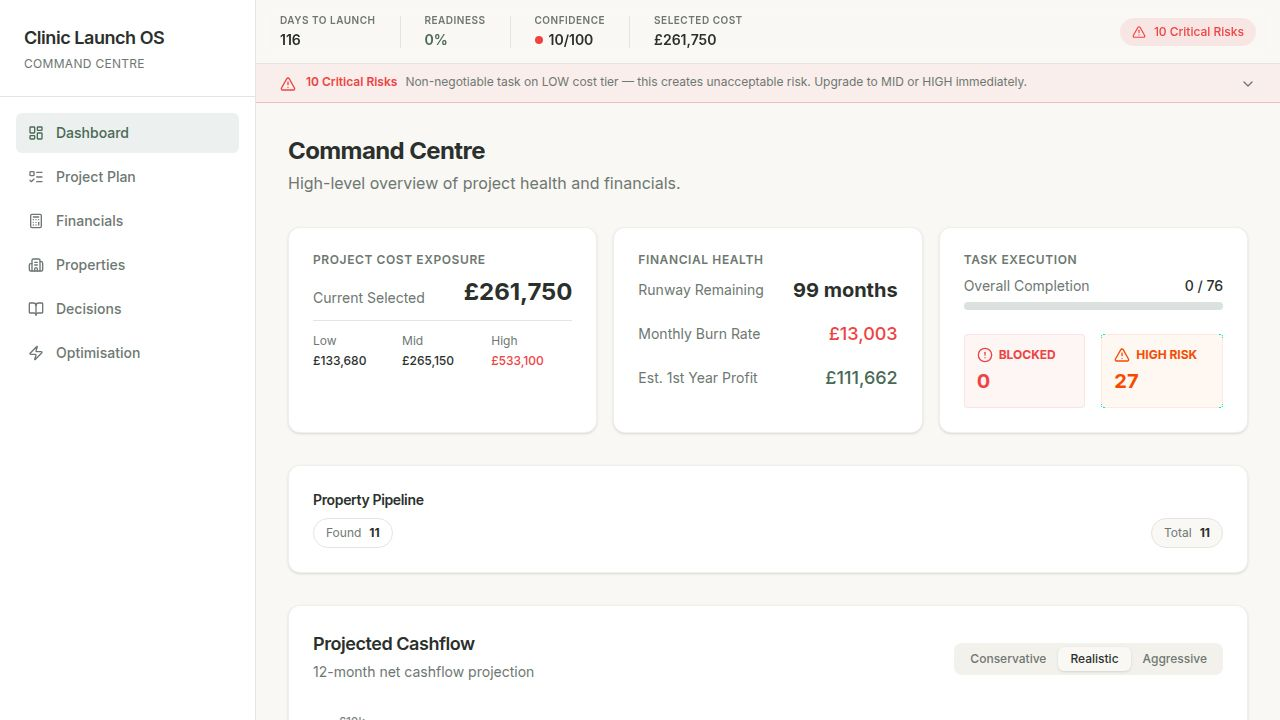
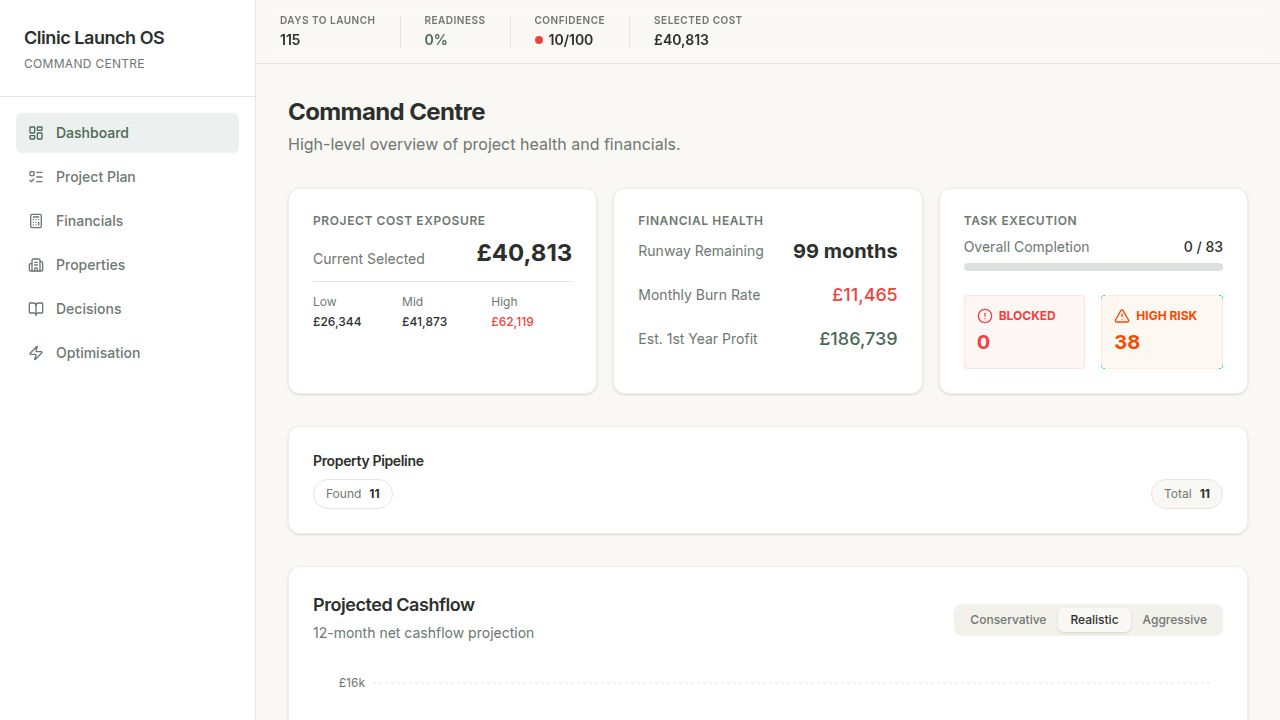
Update application to automatically seed production data on startup
Introduces a startup seed mechanism in the database package and integrates it into the API server's initialization process. The seed logic in `lib/db/src/seed.ts` has been updated to reflect the V5 Winchester plan with 7 phases and 83 tasks. A new `startup-seed.ts` file is created to export `runStartupSeed`, which uses the shared database pool without closing it, ensuring data consistency upon server restarts. The API server's `index.ts` now calls `runStartupSeed` before starting the HTTP server.

Replit-Commit-Author: Agent
Replit-Commit-Session-Id: 4c8dc7f1-dee6-4d3c-af6e-9d1bd6fd0057
Replit-Commit-Checkpoint-Type: full_checkpoint
Replit-Commit-Event-Id: 80ff44a4-ab57-4559-a1a2-92cbe25aa0e3
Replit-Commit-Screenshot-Url: https://storage.googleapis.com/screenshot-production-us-central1/52691904-9ed5-4b0c-820d-f7c301802df9/4c8dc7f1-dee6-4d3c-af6e-9d1bd6fd0057/PAMJiJH
Replit-Helium-Checkpoint-Created: true

diff --git a/artifacts/api-server/src/index.ts b/artifacts/api-server/src/index.ts
@@ -1,5 +1,6 @@
 import app from "./app";
 import { logger } from "./lib/logger";
+import { runStartupSeed } from "@workspace/db";
 
 const rawPort = process.env["PORT"];
 
@@ -15,11 +16,24 @@ if (Number.isNaN(port) || port <= 0) {
   throw new Error(`Invalid PORT value: "${rawPort}"`);
 }
 
-app.listen(port, (err) => {
-  if (err) {
-    logger.error({ err }, "Error listening on port");
-    process.exit(1);
-  }
-
-  logger.info({ port }, "Server listening");
-});
+// Run startup seed before accepting traffic — fixes production DB on every deploy
+runStartupSeed()
+  .then(() => {
+    app.listen(port, (err) => {
+      if (err) {
+        logger.error({ err }, "Error listening on port");
+        process.exit(1);
+      }
+      logger.info({ port }, "Server listening");
+    });
+  })
+  .catch((err) => {
+    logger.error({ err }, "Startup seed failed — starting server anyway");
+    app.listen(port, (err) => {
+      if (err) {
+        logger.error({ err }, "Error listening on port");
+        process.exit(1);
+      }
+      logger.info({ port }, "Server listening");
+    });
+  });

diff --git a/lib/db/src/index.ts b/lib/db/src/index.ts
@@ -14,3 +14,4 @@ export const pool = new Pool({ connectionString: process.env.DATABASE_URL });
 export const db = drizzle(pool, { schema });
 
 export * from "./schema";
+export { runStartupSeed } from "./startup-seed";